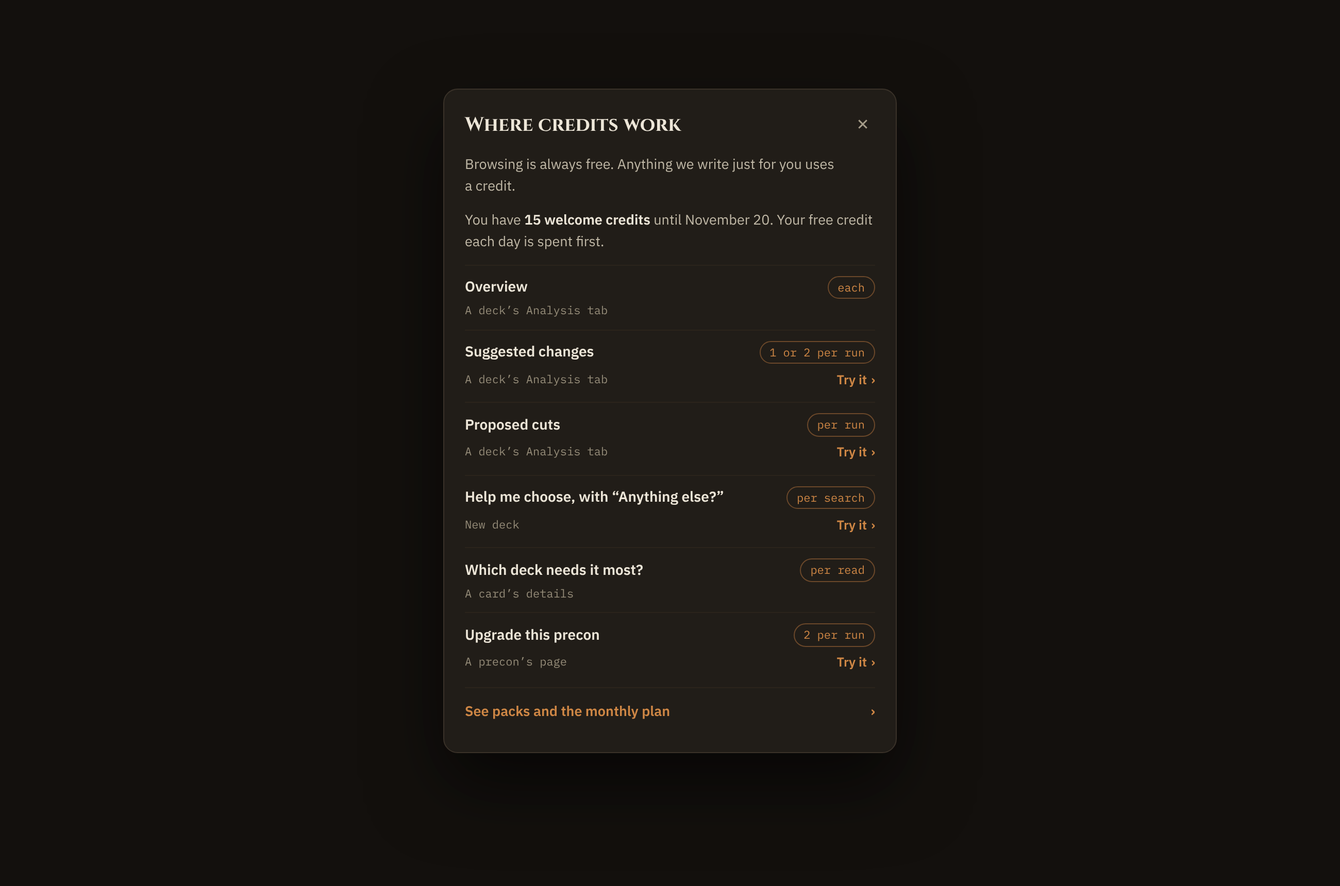
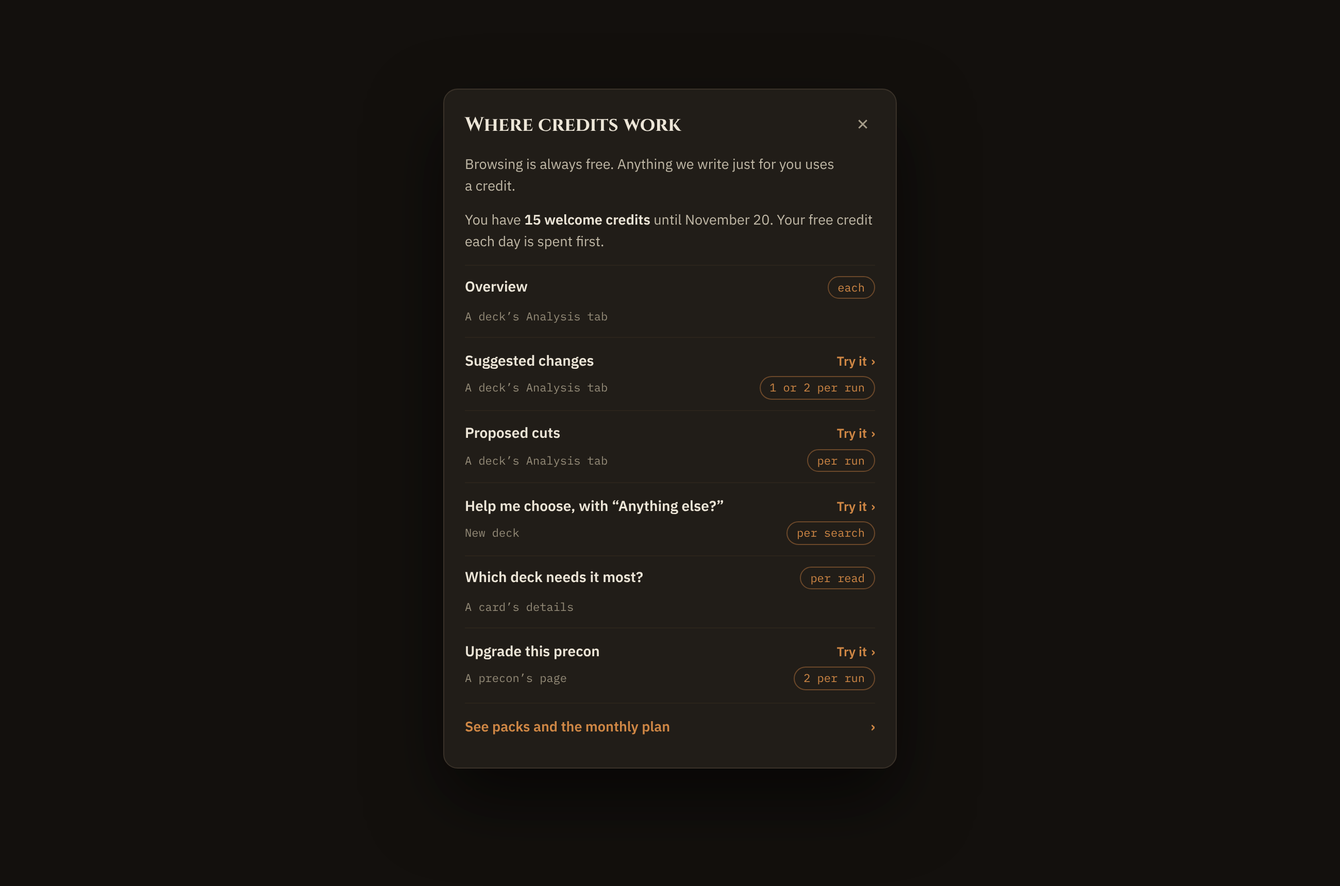
account-2 2026-11-12: Where credits work addendum, onboarding R1b
Hugh's note: Try it sits above the cost pill. Gaps renumbered G25 to G28.
Approved; READINESS added.

Claude-Session: https://claude.ai/code/session_01UvpaAaqbmimEHL1zdbVzt2

diff --git a/account-2/design_handoff_the99_welcome_credits/addendum-onboarding/Main.dc.html b/account-2/design_handoff_the99_welcome_credits/addendum-onboarding/Main.dc.html
@@ -441,9 +441,9 @@ code{font:12px 'IBM Plex Mono',monospace;color:var(--fg-body)}
 .shot.dkf{width:1300px}
 </style>
 </helmet>
-<div class="board" style="width:1780px"><div class="bh"><div class="kick"><span class="tag">W R1</span>Where credits work · addendum · onboarding</div><h2>Upgrade gets a row, and first run shows where credits go</h2><p>Hugh’s brief: add Upgrade this precon as a sixth row, the only tool at a flat 2 credits, without breaking the row pattern; and show the list in first-run onboarding, after the 15 credits are granted (they are granted at sign-up, so from the first Home). Every frame is the shipped sheet, Home and tour rendered with the shipped CSS (Low Sun), with this addendum applied.</p></div><div class="bnote"><h4>Design calls</h4><ol><li><b>The sixth row is <code>Upgrade this precon</code>, where <code>A precon’s page</code>, priced <code>2 per run</code>.</b> Same row, same pill, same ink. The five 1-credit pills stay bare (<code>each</code>, <code>per run</code>), and a number leads a pill only where a run can cost more than 1, as Suggested changes’ shipped <code>1 or 2 per run</code> already does. So the 2 is the first thing in its pill, and nothing new is added to say it. A screen reader hears <code>2 credits per run</code>. The name is the press’s and the landing row’s (<code>Upgrade this precon · 2 credits</code>, the credits-path addendum).</li><li><b>Where the row sits.</b> Last, as on the landing. With cards and no deck it moves up beside Help me choose, over the <code>Needs a deck, and you have none yet.</code> line, because it needs no deck of yours: the precon is the deck. <code>Try it ›</code> goes to the precon list (<code>/decks/precons</code>), where a run starts on the precon the player picks. Before a collection it sits under the lock line with the other five, as Decks is locked then.</li><li><b>First run: a stop in the first-run tour, not a sheet that opens itself.</b> <code>5 of 7 · Credits</code>, after Buying (what a deck costs) and before Your look. It lights the welcome strip, the way What’s new lights the About line, and its card is the inline list: the six rows as name and cost, under the title <code>Where your credits go</code> and R4’s line with the free-credit-first clause. The where lines and <code>Try it</code> stay in the sheet: nothing runs before a collection, and the card must stay short enough to sit over the page on a phone. Its foot points at the lit strip’s <code>Where they work</code>, which opens the full sheet any time.</li><li><b>Why not the same sheet.</b> Opening by itself over the first-run Home, it would be a moment, and the tour already takes the first visit (no moment arrives the same visit). Opened from the tour, it would be a sheet over the scrim, two layers to close. <b>Why not a list in the checklist:</b> that was welcome credits R1, ruled too large.</li><li><b>On a phone the stop brings the strip to the top</b> (as step 1 already scrolls its card up), so the docked card sits under it, over the page, never over the strip.</li><li><b>The stop shows only while the strip draws</b> (a live lot not closed). Without it the tour is the shipped six stops and its foot says <code>Six stops</code>. The tour taken again from the account menu gets the stop while the dashboard’s strip draws.</li></ol></div><div class="bnote"><h4>Gaps for engineering</h4><ul><li><b>G22 · The row follows the reader’s switch.</b> <code>writtenForYou</code> takes the reader’s <code>PRECON_UPGRADE_ENABLED</code> and leaves the row out when it’s off (wopatch.diff). The landing’s own claim is the credits path’s G21.</li><li><b>G23 · Try it and the no-deck lead.</b> <code>welcomeSheet</code> puts <code>upgrade</code> in <code>lead</code> beside <code>help-me-choose</code> when the reader has no deck, and its <code>tryHref</code> is <code>/decks/precons</code> whenever rows are live.</li><li><b>G24 · The tour stop.</b> A <code>credits</code> step (banner cutout, below-start, target <code>tour:welcome</code> registered by the strip) between <code>buying</code> and <code>look</code>; <code>stepsFor</code> drops it when the strip has no target, so the kicker and the diamonds count 6 or 7; the foot reads <code>footSeven</code> with it. At 390 its scroll brings the strip to 14px under the top, as step 1’s does.</li><li><b>G25 · About.</b> If About’s tour entry counts six stops, it says seven while the stop can show: Hugh’s call at the next About batch.</li><li>Locked and unchanged: welcome credits stay 15, no bundle or recipe; the sheet keeps name, where and cost, its grant line and its teaser. All new copy is DRAFT (<code>copy strings.ts</code>).</li></ul></div><div class="frames" style="gap:36px"><div class="fr"><div class="lab"><b>S2</b> · 390 · the sheet with cards, no deck</div><img class="shot ph" src="art/wo-sheet-nodeck-phone.png" alt=""><p class="cap">Upgrade leads with Help me choose; <code>2 per run</code> in the shipped pill.</p></div><div class="fr"><div class="lab"><b>O1</b> · 390 · the tour’s Credits stop</div><img class="shot ph" src="art/wo-tour-credits-phone.png" alt=""><p class="cap">The strip lit, the six rows inline.</p></div><div class="fr"><div class="lab"><b>O1</b> · 1300 · the same <i>(half size)</i></div><img class="shot dk" src="art/wo-tour-credits-desktop.png" alt=""><p class="cap">Placed under the strip, as What’s new is under its line.</p></div></div></div>
+<div class="board" style="width:1780px"><div class="bh"><div class="kick"><span class="tag">W R1b</span>Where credits work · addendum · onboarding</div><h2>Upgrade gets a row, and first run shows where credits go</h2><p>Hugh’s brief: add Upgrade this precon as a sixth row, the only tool at a flat 2 credits, without breaking the row pattern; and show the list in first-run onboarding, after the 15 credits are granted (they are granted at sign-up, so from the first Home). Every frame is the shipped sheet, Home and tour rendered with the shipped CSS (Low Sun), with this addendum applied.</p></div><div class="bnote"><h4>Design calls</h4><ol><li><b>R1b · Try it above the pill (Hugh’s note).</b> A row with a landing puts <code>Try it ›</code> at the right of the name’s line and moves its pill to the right of the where line. A row without one keeps the shipped layout.</li><li><b>The sixth row is <code>Upgrade this precon</code>, where <code>A precon’s page</code>, priced <code>2 per run</code>.</b> Same row, same pill, same ink. The five 1-credit pills stay bare (<code>each</code>, <code>per run</code>), and a number leads a pill only where a run can cost more than 1, as Suggested changes’ shipped <code>1 or 2 per run</code> already does. So the 2 is the first thing in its pill, and nothing new is added to say it. A screen reader hears <code>2 credits per run</code>. The name is the press’s and the landing row’s (<code>Upgrade this precon · 2 credits</code>, the credits-path addendum).</li><li><b>Where the row sits.</b> Last, as on the landing. With cards and no deck it moves up beside Help me choose, over the <code>Needs a deck, and you have none yet.</code> line, because it needs no deck of yours: the precon is the deck. <code>Try it ›</code> goes to the precon list (<code>/decks/precons</code>), where a run starts on the precon the player picks. Before a collection it sits under the lock line with the other five, as Decks is locked then.</li><li><b>First run: a stop in the first-run tour, not a sheet that opens itself.</b> <code>5 of 7 · Credits</code>, after Buying (what a deck costs) and before Your look. It lights the welcome strip, the way What’s new lights the About line, and its card is the inline list: the six rows as name and cost, under the title <code>Where your credits go</code> and R4’s line with the free-credit-first clause. The where lines and <code>Try it</code> stay in the sheet: nothing runs before a collection, and the card must stay short enough to sit over the page on a phone. Its foot points at the lit strip’s <code>Where they work</code>, which opens the full sheet any time.</li><li><b>Why not the same sheet.</b> Opening by itself over the first-run Home, it would be a moment, and the tour already takes the first visit (no moment arrives the same visit). Opened from the tour, it would be a sheet over the scrim, two layers to close. <b>Why not a list in the checklist:</b> that was welcome credits R1, ruled too large.</li><li><b>On a phone the stop brings the strip to the top</b> (as step 1 already scrolls its card up), so the docked card sits under it, over the page, never over the strip.</li><li><b>The stop shows only while the strip draws</b> (a live lot not closed). Without it the tour is the shipped six stops and its foot says <code>Six stops</code>. The tour taken again from the account menu gets the stop while the dashboard’s strip draws.</li></ol></div><div class="bnote"><h4>Gaps for engineering</h4><ul><li><b>G25 · The row follows the reader’s switch.</b> <code>writtenForYou</code> takes the reader’s <code>PRECON_UPGRADE_ENABLED</code> and leaves the row out when it’s off (wopatch.diff). The landing’s own claim is in the credits-path addendum.</li><li><b>G26 · Try it and the no-deck lead.</b> <code>welcomeSheet</code> puts <code>upgrade</code> in <code>lead</code> beside <code>help-me-choose</code> when the reader has no deck, and its <code>tryHref</code> is <code>/decks/precons</code> whenever rows are live.</li><li><b>G27 · The tour stop.</b> A <code>credits</code> step (banner cutout, below-start, target <code>tour:welcome</code> registered by the strip) between <code>buying</code> and <code>look</code>; <code>stepsFor</code> drops it when the strip has no target, so the kicker and the diamonds count 6 or 7; the foot reads <code>footSeven</code> with it. At 390 its scroll brings the strip to 14px under the top, as step 1’s does.</li><li><b>G28 · About.</b> If About’s tour entry counts six stops, it says seven while the stop can show: Hugh’s call at the next About batch.</li><li>Locked and unchanged: welcome credits stay 15, no bundle or recipe; the sheet keeps name, where and cost, its grant line and its teaser. All new copy is DRAFT (<code>copy strings.ts</code>).</li></ul></div><div class="frames" style="gap:36px"><div class="fr"><div class="lab"><b>S2</b> · 390 · the sheet with cards, no deck</div><img class="shot ph" src="art/wo-sheet-nodeck-phone.png" alt=""><p class="cap">Upgrade leads with Help me choose; Try it above <code>2 per run</code>.</p></div><div class="fr"><div class="lab"><b>O1</b> · 390 · the tour’s Credits stop</div><img class="shot ph" src="art/wo-tour-credits-phone.png" alt=""><p class="cap">The strip lit, the six rows inline.</p></div><div class="fr"><div class="lab"><b>O1</b> · 1300 · the same <i>(half size)</i></div><img class="shot dk" src="art/wo-tour-credits-desktop.png" alt=""><p class="cap">Placed under the strip, as What’s new is under its line.</p></div></div></div>
 </x-dc>
-<script type="text/x-dc" data-dc-script data-props='{"$preview":{"width":1780,"height":1950}}'>
+<script type="text/x-dc" data-dc-script data-props='{"$preview":{"width":1780,"height":2010}}'>
 class Component extends DCLogic {
 renderVals() { return {}; }
 }

diff --git a/account-2/design_handoff_the99_welcome_credits/addendum-onboarding/S-Sheet.dc.html b/account-2/design_handoff_the99_welcome_credits/addendum-onboarding/S-Sheet.dc.html
@@ -441,7 +441,7 @@ code{font:12px 'IBM Plex Mono',monospace;color:var(--fg-body)}
 .shot.dkf{width:1300px}
 </style>
 </helmet>
-<div class="board" style="width:1780px"><div class="bh"><div class="kick"><span class="tag">W R1</span>S · The sheet</div><h2>Six rows, name, where and cost</h2><p>The shipped sheet (390) and modal (1300) in its three shapes, with the shipped five-row sheet first for reference. Only the sixth row and, with no deck, its place in the lead change.</p></div><div class="frames" style="gap:36px"><div class="fr"><div class="lab"><b>S0</b> · 390 · shipped, cards and no deck</div><img class="shot ph" src="art/wo-sheet-nodeck-shipped-phone.png" alt=""><p class="cap">For reference.</p></div><div class="fr"><div class="lab"><b>S1</b> · 390 · before a collection</div><img class="shot ph" src="art/wo-sheet-locked-phone.png" alt=""><p class="cap">Under the lock line with the rest. No Try it.</p></div><div class="fr"><div class="lab"><b>S2</b> · 390 · cards, no deck</div><img class="shot ph" src="art/wo-sheet-nodeck-phone.png" alt=""><p class="cap">Leads beside Help me choose, over the needs-a-deck line.</p></div><div class="fr"><div class="lab"><b>S3</b> · 390 · with a deck</div><img class="shot ph" src="art/wo-sheet-decks-phone.png" alt=""><p class="cap">Last, with Try it › to the precon list.</p></div></div><div class="frames" style="gap:36px"><div class="fr"><div class="lab"><b>S0</b> · 1300 · shipped <i>(half size)</i></div><img class="shot dk" src="art/wo-sheet-nodeck-shipped-desktop.png" alt=""></div><div class="fr"><div class="lab"><b>S1</b> · 1300 · before a collection <i>(half size)</i></div><img class="shot dk" src="art/wo-sheet-locked-desktop.png" alt=""></div></div><div class="frames" style="gap:36px"><div class="fr"><div class="lab"><b>S2</b> · 1300 · cards, no deck <i>(half size)</i></div><img class="shot dk" src="art/wo-sheet-nodeck-desktop.png" alt=""></div><div class="fr"><div class="lab"><b>S3</b> · 1300 · with a deck <i>(half size)</i></div><img class="shot dk" src="art/wo-sheet-decks-desktop.png" alt=""></div></div></div>
+<div class="board" style="width:1780px"><div class="bh"><div class="kick"><span class="tag">W R1b</span>S · The sheet</div><h2>Six rows, name, where and cost</h2><p>The shipped sheet (390) and modal (1300) in its three shapes, with the shipped five-row sheet first for reference. Only the sixth row and, with no deck, its place in the lead change.</p></div><div class="frames" style="gap:36px"><div class="fr"><div class="lab"><b>S0</b> · 390 · shipped, cards and no deck</div><img class="shot ph" src="art/wo-sheet-nodeck-shipped-phone.png" alt=""><p class="cap">For reference.</p></div><div class="fr"><div class="lab"><b>S1</b> · 390 · before a collection</div><img class="shot ph" src="art/wo-sheet-locked-phone.png" alt=""><p class="cap">Under the lock line with the rest. No Try it.</p></div><div class="fr"><div class="lab"><b>S2</b> · 390 · cards, no deck</div><img class="shot ph" src="art/wo-sheet-nodeck-phone.png" alt=""><p class="cap">Leads beside Help me choose, over the needs-a-deck line.</p></div><div class="fr"><div class="lab"><b>S3</b> · 390 · with a deck</div><img class="shot ph" src="art/wo-sheet-decks-phone.png" alt=""><p class="cap">Last, with Try it › above its pill, to the precon list.</p></div></div><div class="frames" style="gap:36px"><div class="fr"><div class="lab"><b>S0</b> · 1300 · shipped <i>(half size)</i></div><img class="shot dk" src="art/wo-sheet-nodeck-shipped-desktop.png" alt=""></div><div class="fr"><div class="lab"><b>S1</b> · 1300 · before a collection <i>(half size)</i></div><img class="shot dk" src="art/wo-sheet-locked-desktop.png" alt=""></div></div><div class="frames" style="gap:36px"><div class="fr"><div class="lab"><b>S2</b> · 1300 · cards, no deck <i>(half size)</i></div><img class="shot dk" src="art/wo-sheet-nodeck-desktop.png" alt=""></div><div class="fr"><div class="lab"><b>S3</b> · 1300 · with a deck <i>(half size)</i></div><img class="shot dk" src="art/wo-sheet-decks-desktop.png" alt=""></div></div></div>
 </x-dc>
 <script type="text/x-dc" data-dc-script data-props='{"$preview":{"width":1780,"height":2154}}'>
 class Component extends DCLogic {

diff --git a/account-2/design_handoff_the99_welcome_credits/addendum-onboarding/O-First-Run.dc.html b/account-2/design_handoff_the99_welcome_credits/addendum-onboarding/O-First-Run.dc.html
@@ -441,7 +441,7 @@ code{font:12px 'IBM Plex Mono',monospace;color:var(--fg-body)}
 .shot.dkf{width:1300px}
 </style>
 </helmet>
-<div class="board" style="width:1412px"><div class="bh"><div class="kick"><span class="tag">W R1</span>O · First run</div><h2>The tour stops at the strip</h2><p>The first-run Home as shipped (the strip under the About line), then the tour’s new Credits stop: 5 of 7, after Buying. The rest of the tour is unchanged.</p></div><div class="frames" style="gap:36px"><div class="fr"><div class="lab"><b>O0</b> · 390 · first-run Home, shipped</div><img class="shot ph" src="art/wo-home-phone.png" alt=""><p class="cap">The strip, and its <code>Where they work</code>, as shipped.</p></div><div class="fr"><div class="lab"><b>O1</b> · 390 · the Credits stop</div><img class="shot ph" src="art/wo-tour-credits-phone.png" alt=""><p class="cap">The strip brought up and lit; the card docked above the tab bar.</p></div></div><div class="frames" style="gap:44px"><div class="fr"><div class="lab"><b>O0</b> · 1300 · first-run Home, shipped</div><img class="shot dkf" src="art/wo-home-desktop.png" alt=""></div></div><div class="frames" style="gap:44px"><div class="fr"><div class="lab"><b>O1</b> · 1300 · the Credits stop</div><img class="shot dkf" src="art/wo-tour-credits-desktop.png" alt=""><p class="cap">The card under the lit strip, at its start, 340 wide as every stop.</p></div></div></div>
+<div class="board" style="width:1412px"><div class="bh"><div class="kick"><span class="tag">W R1b</span>O · First run</div><h2>The tour stops at the strip</h2><p>The first-run Home as shipped (the strip under the About line), then the tour’s new Credits stop: 5 of 7, after Buying. The rest of the tour is unchanged.</p></div><div class="frames" style="gap:36px"><div class="fr"><div class="lab"><b>O0</b> · 390 · first-run Home, shipped</div><img class="shot ph" src="art/wo-home-phone.png" alt=""><p class="cap">The strip, and its <code>Where they work</code>, as shipped.</p></div><div class="fr"><div class="lab"><b>O1</b> · 390 · the Credits stop</div><img class="shot ph" src="art/wo-tour-credits-phone.png" alt=""><p class="cap">The strip brought up and lit; the card docked above the tab bar.</p></div></div><div class="frames" style="gap:44px"><div class="fr"><div class="lab"><b>O0</b> · 1300 · first-run Home, shipped</div><img class="shot dkf" src="art/wo-home-desktop.png" alt=""></div></div><div class="frames" style="gap:44px"><div class="fr"><div class="lab"><b>O1</b> · 1300 · the Credits stop</div><img class="shot dkf" src="art/wo-tour-credits-desktop.png" alt=""><p class="cap">The card under the lit strip, at its start, 340 wide as every stop.</p></div></div></div>
 </x-dc>
 <script type="text/x-dc" data-dc-script data-props='{"$preview":{"width":1412,"height":3046}}'>
 class Component extends DCLogic {

diff --git a/account-2/design_handoff_the99_welcome_credits/addendum-onboarding/scratch-gen/wo.py b/account-2/design_handoff_the99_welcome_credits/addendum-onboarding/scratch-gen/wo.py
@@ -35,6 +35,7 @@ def shot(n, cls):
 
 
 CALLS = [
+    "<b>R1b · Try it above the pill (Hugh’s note).</b> A row with a landing puts <code>Try it ›</code> at the right of the name’s line and moves its pill to the right of the where line. A row without one keeps the shipped layout.",
     "<b>The sixth row is <code>Upgrade this precon</code>, where <code>A precon’s page</code>, priced <code>2 per run</code>.</b> Same row, same pill, same ink. "
     "The five 1-credit pills stay bare (<code>each</code>, <code>per run</code>), and a number leads a pill only where a run can cost more than 1, as Suggested changes’ shipped <code>1 or 2 per run</code> already does. So the 2 is the first thing in its pill, and nothing new is added to say it. A screen reader hears <code>2 credits per run</code>. "
     "The name is the press’s and the landing row’s (<code>Upgrade this precon · 2 credits</code>, the credits-path addendum).",
@@ -49,10 +50,10 @@ CALLS = [
     "<b>The stop shows only while the strip draws</b> (a live lot not closed). Without it the tour is the shipped six stops and its foot says <code>Six stops</code>. The tour taken again from the account menu gets the stop while the dashboard’s strip draws.",
 ]
 GAPS = [
-    "<b>G22 · The row follows the reader’s switch.</b> <code>writtenForYou</code> takes the reader’s <code>PRECON_UPGRADE_ENABLED</code> and leaves the row out when it’s off (wopatch.diff). The landing’s own claim is the credits path’s G21.",
-    "<b>G23 · Try it and the no-deck lead.</b> <code>welcomeSheet</code> puts <code>upgrade</code> in <code>lead</code> beside <code>help-me-choose</code> when the reader has no deck, and its <code>tryHref</code> is <code>/decks/precons</code> whenever rows are live.",
-    "<b>G24 · The tour stop.</b> A <code>credits</code> step (banner cutout, below-start, target <code>tour:welcome</code> registered by the strip) between <code>buying</code> and <code>look</code>; <code>stepsFor</code> drops it when the strip has no target, so the kicker and the diamonds count 6 or 7; the foot reads <code>footSeven</code> with it. At 390 its scroll brings the strip to 14px under the top, as step 1’s does.",
-    "<b>G25 · About.</b> If About’s tour entry counts six stops, it says seven while the stop can show: Hugh’s call at the next About batch.",
+    "<b>G25 · The row follows the reader’s switch.</b> <code>writtenForYou</code> takes the reader’s <code>PRECON_UPGRADE_ENABLED</code> and leaves the row out when it’s off (wopatch.diff). The landing’s own claim is in the credits-path addendum.",
+    "<b>G26 · Try it and the no-deck lead.</b> <code>welcomeSheet</code> puts <code>upgrade</code> in <code>lead</code> beside <code>help-me-choose</code> when the reader has no deck, and its <code>tryHref</code> is <code>/decks/precons</code> whenever rows are live.",
+    "<b>G27 · The tour stop.</b> A <code>credits</code> step (banner cutout, below-start, target <code>tour:welcome</code> registered by the strip) between <code>buying</code> and <code>look</code>; <code>stepsFor</code> drops it when the strip has no target, so the kicker and the diamonds count 6 or 7; the foot reads <code>footSeven</code> with it. At 390 its scroll brings the strip to 14px under the top, as step 1’s does.",
+    "<b>G28 · About.</b> If About’s tour entry counts six stops, it says seven while the stop can show: Hugh’s call at the next About batch.",
     "Locked and unchanged: welcome credits stay 15, no bundle or recipe; the sheet keeps name, where and cost, its grant line and its teaser. All new copy is DRAFT (<code>copy strings.ts</code>).",
 ]
 W = 4 * 390 + 3 * 36 + 112
@@ -61,9 +62,9 @@ W = 4 * 390 + 3 * 36 + 112
 def b_main():
     body = (board_head("Where credits work · addendum · onboarding", "Upgrade gets a row, and first run shows where credits go",
                        "Hugh’s brief: add Upgrade this precon as a sixth row, the only tool at a flat 2 credits, without breaking the row pattern; and show the list in first-run onboarding, after the 15 credits are granted (they are granted at sign-up, so from the first Home). "
-                       "Every frame is the shipped sheet, Home and tour rendered with the shipped CSS (Low Sun), with this addendum applied.", tag="W R1")
+                       "Every frame is the shipped sheet, Home and tour rendered with the shipped CSS (Low Sun), with this addendum applied.", tag="W R1b")
             + note("Design calls", CALLS, True) + note("Gaps for engineering", GAPS)
-            + frames(frame("<b>S2</b> · 390 · the sheet with cards, no deck", shot("sheet-nodeck-phone", "ph"), "Upgrade leads with Help me choose; <code>2 per run</code> in the shipped pill."),
+            + frames(frame("<b>S2</b> · 390 · the sheet with cards, no deck", shot("sheet-nodeck-phone", "ph"), "Upgrade leads with Help me choose; Try it above <code>2 per run</code>."),
                      frame("<b>O1</b> · 390 · the tour’s Credits stop", shot("tour-credits-phone", "ph"), "The strip lit, the six rows inline."),
                      frame("<b>O1</b> · 1300 · the same <i>(half size)</i>", shot("tour-credits-desktop", "dk"), "Placed under the strip, as What’s new is under its line."), gap=36))
     return doc("Onboarding addendum calls", body, W)
@@ -71,11 +72,11 @@ def b_main():
 
 def b_sheet():
     body = (board_head("S · The sheet", "Six rows, name, where and cost",
-                       "The shipped sheet (390) and modal (1300) in its three shapes, with the shipped five-row sheet first for reference. Only the sixth row and, with no deck, its place in the lead change.", tag="W R1")
+                       "The shipped sheet (390) and modal (1300) in its three shapes, with the shipped five-row sheet first for reference. Only the sixth row and, with no deck, its place in the lead change.", tag="W R1b")
             + frames(frame("<b>S0</b> · 390 · shipped, cards and no deck", shot("sheet-nodeck-shipped-phone", "ph"), "For reference."),
                      frame("<b>S1</b> · 390 · before a collection", shot("sheet-locked-phone", "ph"), "Under the lock line with the rest. No Try it."),
                      frame("<b>S2</b> · 390 · cards, no deck", shot("sheet-nodeck-phone", "ph"), "Leads beside Help me choose, over the needs-a-deck line."),
-                     frame("<b>S3</b> · 390 · with a deck", shot("sheet-decks-phone", "ph"), "Last, with Try it › to the precon list."), gap=36)
+                     frame("<b>S3</b> · 390 · with a deck", shot("sheet-decks-phone", "ph"), "Last, with Try it › above its pill, to the precon list."), gap=36)
             + frames(frame("<b>S0</b> · 1300 · shipped <i>(half size)</i>", shot("sheet-nodeck-shipped-desktop", "dk")),
                      frame("<b>S1</b> · 1300 · before a collection <i>(half size)</i>", shot("sheet-locked-desktop", "dk")), gap=36)
             + frames(frame("<b>S2</b> · 1300 · cards, no deck <i>(half size)</i>", shot("sheet-nodeck-desktop", "dk")),
@@ -85,7 +86,7 @@ def b_sheet():
 
 def b_first():
     body = (board_head("O · First run", "The tour stops at the strip",
-                       "The first-run Home as shipped (the strip under the About line), then the tour’s new Credits stop: 5 of 7, after Buying. The rest of the tour is unchanged.", tag="W R1")
+                       "The first-run Home as shipped (the strip under the About line), then the tour’s new Credits stop: 5 of 7, after Buying. The rest of the tour is unchanged.", tag="W R1b")
             + frames(frame("<b>O0</b> · 390 · first-run Home, shipped", shot("home-phone", "ph"), "The strip, and its <code>Where they work</code>, as shipped."),
                      frame("<b>O1</b> · 390 · the Credits stop", shot("tour-credits-phone", "ph"), "The strip brought up and lit; the card docked above the tab bar."), gap=36)
             + frames(frame("<b>O0</b> · 1300 · first-run Home, shipped", shot("home-desktop", "dkf")))
@@ -94,7 +95,7 @@ def b_first():
 
 
 # Measured board heights (rendered at full size, plus 24px of foot).
-H = {"Main": 1950, "S-Sheet": 2154, "O-First-Run": 3046}
+H = {"Main": 2010, "S-Sheet": 2154, "O-First-Run": 3046}
 BOARDS = [("Main", b_main, "W · calls"), ("S-Sheet", b_sheet, "S · The six-row sheet"), ("O-First-Run", b_first, "O · First run")]
 if __name__ == "__main__":
     os.makedirs(OUT, exist_ok=True)

diff --git a/account-2/design_handoff_the99_welcome_credits/addendum-onboarding/README.md b/account-2/design_handoff_the99_welcome_credits/addendum-onboarding/README.md
@@ -2,7 +2,7 @@
 
 `design_handoff_the99_welcome_credits/addendum-onboarding/` · 2026-11-12 · account 2
 
-**Status: R1, waiting for Hugh's audit.** Canvas: https://claude.ai/artifact/FrRgypPHqeaBWLMocRLBoa
+**Status: R1b, approved by Hugh 2026-11-12.** R1b applies his one note: `Try it ›` sits above the cost pill. Canvas: https://claude.ai/artifact/FrRgypPHqeaBWLMocRLBoa
 
 **Brief (Hugh, 2026-11-12).** Light addendum: the shipped `Where credits work` sheet gets an Upgrade row and a place in first-run onboarding.
 1. Add Upgrade this precon as a sixth row. It's the only tool that costs a flat 2 credits, so its cost pill has to say that without breaking the row pattern.
@@ -22,6 +22,8 @@
 | `scratch-gen/` | `wopatch.diff`, the render scripts and the board generator (`wo.py`) |
 
 ## Design's calls
+
+0. **R1b · Try it above the pill (Hugh's note).** A row with a landing puts `Try it ›` at the right of the name's line and moves its pill to the right of the where line. A row without one keeps the shipped layout (pill beside the name). `wopatch.diff` carries the change to `Row` in `where-credits-work.tsx`.
 
 1. **The sixth row is `Upgrade this precon`, where `A precon's page`, priced `2 per run`.**
    - Same row, same pill, same ink. The five 1-credit pills stay bare (`each`, `per run`, `per search`, `per read`).
@@ -44,10 +46,10 @@
 
 ## Gaps for engineering
 
-- **G22 · The row follows the reader's switch.** `writtenForYou` takes the reader's `PRECON_UPGRADE_ENABLED` and leaves the row out when it's off. The landing's own claim is the credits path's G21.
-- **G23 · Try it and the no-deck lead.** `welcomeSheet` puts `upgrade` in `lead` beside `help-me-choose` with no deck; its `tryHref` is `/decks/precons` whenever rows are live.
-- **G24 · The tour stop.** A `credits` step (banner cutout, below-start, target `tour:welcome` registered by the strip) between `buying` and `look`. `stepsFor` drops it when the strip has no target, so the kicker and diamonds count 6 or 7; the step-1 foot reads `footSeven` with it. At 390 its scroll brings the strip to 14px under the top, as step 1's does.
-- **G25 · About.** If About's tour entry counts six stops, it says seven while the stop can show. Hugh's call at the next About batch.
+- **G25 · The row follows the reader's switch.** `writtenForYou` takes the reader's `PRECON_UPGRADE_ENABLED` and leaves the row out when it's off. The landing's own claim is in the credits-path addendum.
+- **G26 · Try it and the no-deck lead.** `welcomeSheet` puts `upgrade` in `lead` beside `help-me-choose` with no deck; its `tryHref` is `/decks/precons` whenever rows are live.
+- **G27 · The tour stop.** A `credits` step (banner cutout, below-start, target `tour:welcome` registered by the strip) between `buying` and `look`. `stepsFor` drops it when the strip has no target, so the kicker and diamonds count 6 or 7; the step-1 foot reads `footSeven` with it. At 390 its scroll brings the strip to 14px under the top, as step 1's does.
+- **G28 · About.** If About's tour entry counts six stops, it says seven while the stop can show. Hugh's call at the next About batch.
 
 ## Not drawn
 - Themes other than Low Sun; the tour taken again on the dashboard (same card, same rule).

diff --git a/account-2/design_handoff_the99_welcome_credits/addendum-onboarding/READINESS.md b/account-2/design_handoff_the99_welcome_credits/addendum-onboarding/READINESS.md
@@ -1,0 +1,15 @@
+# READINESS · Where credits work addendum: onboarding (R1b)
+
+**Verdict: Green for build.** Approved by Hugh 2026-11-12 ("LGTM") with one note, applied in R1b: `Try it ›` sits above the cost pill.
+
+| Item | State |
+|---|---|
+| Sixth row (`Upgrade this precon`, `A precon's page`, `2 per run`) | Drawn in all three sheet shapes, 390 and 1300 |
+| Try it above the pill | R1b, in `Row` (`wopatch.diff`) |
+| No-deck lead and Try it to `/decks/precons` | G26 |
+| Row behind the reader's `PRECON_UPGRADE_ENABLED` | G25 |
+| First-run tour Credits stop (5 of 7) | Drawn 390 and 1300; G27 |
+| About's tour entry stop count | G28, Hugh's call at the next About batch |
+| Copy | DRAFT, `/copy-review` before the build merges |
+
+No new tokens, no new motion, no new dependencies. Mobile and desktop ship in the same PR.
